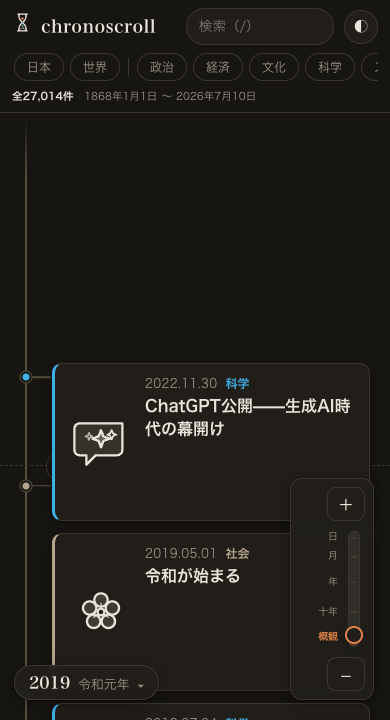
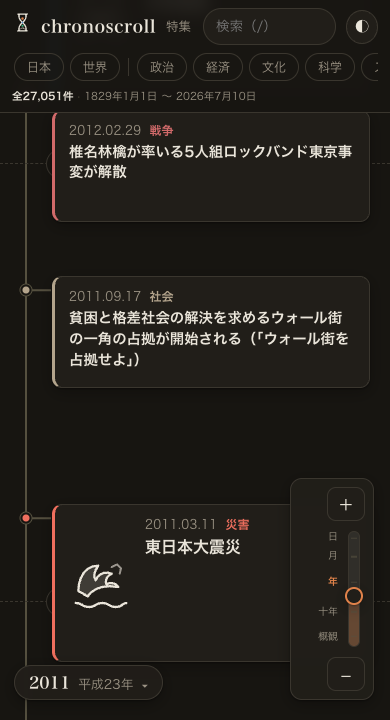
fix(state): ディープリンク?e=で詳細が開かない不具合を修正 + 特集の設計メモ
スクリーンショット撮影中に、個別ページの「年表でこの位置を開く」
（?t=&z=&e=<id>）で詳細ダイアログが開かないことに気づいた。全27,051件の
個別ページが持つ主要CTAが効いていなかった（今回の変更以前からの不具合）。

原因は細粒度リアクティビティの取りこぼし。`selected` は
$derived(data.byId(selectedId)) だが、byId() が読む #events は素のMapで
追跡対象にならない。ディープリンクではデータ到着前に selectedId が確定するため
初回評価でnullになり、以降 selectedId が変わらないので永久に再評価されない。
カード클릭では selectedId 自体が変わるので動いていた＝気づきにくかった。

同じ形の取りこぼしを今回追加した collectionsByEvent でも踏んでいた。
こちらは this.collections（$state）を .map のコールバック内で読むため、
未取得時は slugs が空でコールバックが走らず何も追跡しない。

- byId / booksById / collectionsByEvent の先頭で version を読む
- books.json / collections.json の到着時に version をインクリメント
- スモークに2件追加（CTAのhrefで実際に開くか / ダイアログの特集チップ）

あわせて:
- docs/superpowers/specs/ に特集機能の設計メモ（判断の理由・踏んだ落とし穴・
  新しい特集を足す手順）
- スクリーンショット4点を刷新（ヘッダーの特集リンクと収録期間1829年〜を反映。
  特集ページを追加）
- art-collection-houseplant に葉の切れ込みを追加（既存の art-abe-shooting
  =献花とsilhouetteが紛れていたため）

287テスト・lib100%・スモーク37/37

diff --git a/src/lib/state/data.svelte.ts b/src/lib/state/data.svelte.ts
@@ -57,22 +57,31 @@ export class TimelineData {
 		void fetchJson<Record<string, BookRef[]>>('/data/books.json')
 			.then((books) => {
 				this.#books = books;
+				this.version++;
 			})
 			.catch(() => {});
 		void fetchJson<CollectionsIndex>('/data/collections.json')
 			.then((index) => {
 				this.#collectionsByEvent = index.byEvent;
 				this.collections = index.collections;
+				this.version++;
 			})
 			.catch(() => {});
 	}
 
 	booksById(id: string): BookRef[] {
+		void this.version;
 		return this.#books[id] ?? [];
 	}
 
-	/** このイベントが収録されている特集（未取得なら空配列） */
+	/**
+	 * このイベントが収録されている特集（未取得なら空配列）。
+	 * version を先に読むのが必須。#collectionsByEvent が素のオブジェクトである上に、
+	 * 未取得時は slugs が空で .map のコールバックが走らず this.collections も読まれないため、
+	 * 何も追跡せず collections.json 到着後も再評価されない。
+	 */
 	collectionsByEvent(id: string): CollectionMeta[] {
+		void this.version;
 		const slugs = this.#collectionsByEvent[id] ?? [];
 		return slugs
 			.map((slug) => this.collections.find((c) => c.slug === slug))
@@ -114,7 +123,14 @@ export class TimelineData {
 		}
 	}
 
+	/**
+	 * イベントを引く。#events は素のMapで追跡できないため version を読む。
+	 * これが無いと `$derived(data.byId(id))` がチャンク到着で再評価されず、
+	 * ?e=<id> のディープリンク（個別ページの「年表でこの位置を開く」）で
+	 * 詳細が永久にnullのままになる。
+	 */
 	byId(id: string): NewsEvent | undefined {
+		void this.version;
 		return this.#events.get(id);
 	}
 

diff --git a/docs/superpowers/specs/2026-07-30-collections-design.md b/docs/superpowers/specs/2026-07-30-collections-design.md
@@ -1,0 +1,134 @@
+# 特集（コレクション）機能 設計メモ
+
+2026-07-30 実装。関連: `AGENTS.md`（運用ルール）/ `pipeline/lib/collections.ts` / `src/lib/collections.ts`
+
+## なぜ作ったか
+
+年表は1868〜現在を通しで眺めるのは得意だが、**あるテーマだけを追う導線が無かった**。
+「アニメの歴史」のようにテーマを決めて年代順に読める入口を足す。
+
+## 設計を決めた事実
+
+着手時に既存27,014件をキーワードで実測した結果が、機能の性質を決めた。
+
+| テーマ | ヒット | 実態 |
+|---|---|---|
+| アニメ | 88件 | 既存イベントで組める |
+| 鉄道 / 宇宙 / 映画 | 1141 / 238 / 145 | 素材豊富 |
+| ブレイクダンス | **0件** | ゼロ |
+| 観葉植物 | 18件 | 実質ゼロ（全部「植物園開園」） |
+
+Wikipedia年ページは「その年の主要な事件」を並べたものなので、**ニッチなテーマ史は構造的に載らない**。
+つまり特集は「既存イベントを束ねる機能」ではなく「**テーマ史を書き起こす場所**」でもある必要がある。
+
+前例はあった。`content/curated/ai-tech.yaml`（41件中40件が新規イベント）が事実上の未公開の特集で、
+これを表に出す形に落ち着いた。
+
+## 中心の判断: entries を CuratedEntry と同型にする
+
+`content/collections/<slug>.yaml` の `entries` を既存の `CuratedEntry` と同じ形にし、
+build.ts で curated 層と concat して**同じ経路に流す**。
+
+```
+content/curated/*.yaml      ┐
+content/collections/*.yaml  ┴→ curatedEntries → protectedIds（重複除去からのid保護）
+                                             → applyCurated（新規追加 / 部分上書き）
+                                             → manualRelatedIds（relatedIds手動指定）
+```
+
+これで4つの機能が新規実装なしで手に入る:
+
+1. 既存イベントの参照
+2. 既存イベントの部分上書き（要約リライト・SVG割当）
+3. **新規イベントの生成**（`date`+`title`+`summary` が揃うと `applyCurated` が作る）
+4. 月次Wikipedia再生成での**id保護**と、外れたときの `⚠` 検出
+
+配信は books.yaml の前例（`NewsEvent`にマージせず独立経路）に倣って2系統:
+
+- `static/data/collections.json` — 一覧メタ + イベントid→slug の逆引き（6KB）
+- `static/data/collections/<slug>.json` — 収録イベント**本体つき**（18〜37KB）
+
+本体を詰めたのが効いた。年表の `?k=<slug>` 絞り込みで**チャンクを1つも読まずに**特集全件を描ける。
+
+## 見せ方
+
+- `/c` 一覧、`/c/<slug>` 個別（どちらも `prerender` + `csr=false` の純静的HTML）
+- 年表側は `?k=<slug>`。`FilterState.collectionIds` で絞り、URLには id列ではなく slug だけ乗せる
+  （id集合は collections.json から解決するため `serializeFilter` の対象外）
+- 「年表で通して見る」は**期間の中央ではなく最新のできごと**に着地させる。
+  特集は年代が飛ぶので中央が空白帯になることがある（ブレイクダンスは1996〜2004が空）
+
+## 落とし穴（実装中に踏んだもの）
+
+### 1. 特集の絞り込み中はLODを外さないと1件も出ない
+
+収録イベントは本編を汚さないよう `importance` を40〜60に振ってある。
+一方 `importanceThreshold` は密度から閾値を出すので、フィルタ通過率で補正しても
+
+```
+selectivity = 18/725 = 0.0248 → adjustedEventsPerDay = 0.0093
+threshold = 100 × (1 − 0.1396/(110×0.0093)) ≈ 86
+```
+
+となり、**全件が閾値に負けて消える**。`Timeline.svelte` の `threshold` は特集中は 0 にする。
+件数は特集1本ぶん（数十件）に限られるので、間引きは `capDensity` だけで足りる。
+
+> 教訓: 「フィルタで件数が減れば `filterSelectivity` が閾値を下げてくれる」は成り立たない。
+> selectivity には下限0.005があるが、それに張り付く前に閾値が実用外の高さになる。
+
+### 2. importance の既定値は 100
+
+`applyCurated` は `importance` 省略時に 100 を入れる。新規イベントでは**必ず明示**する。
+省略するとニッチな話題が概観ズームの先頭に並ぶ。
+
+### 3. `e2e/serve.mjs` の cleanUrls 解決順
+
+`/c` は `build/c.html` と `build/c/`（`/c/<slug>` 用）が同名で並ぶ。harnessが
+ディレクトリを優先していたため `c/index.html` を探して404。**`.html` を先に見る**のが正しい。
+Vercelは出力ファイルからルート表を作るので本番は無影響だったが、CIのスモークが落ちる。
+
+### 4. 収録期間が伸びるとスモークが壊れる
+
+初期ズームは `vh×6/(maxDay−minDay)` なので、収録期間が伸びると初期ズームが下がる。
+「ズームアウトを2回押すと下限」という決め打ちが壊れた。**無効化されるまで押し切る**形にした。
+
+### 5. 前史を入れると収録期間の表示が変わる
+
+観葉植物の1829〜1855の6件を史実どおり入れたため、ヘッダーの収録期間が
+`1868年〜` → `1829年〜` になった。値は `index.json` から焼き込むので表示は自動追従する。
+1829〜1868は6件しかない疎な帯になる（ユーザー判断で受け入れ）。
+
+## 新しい特集を足す手順
+
+1. `content/collections/<slug>.yaml` を1本作る（`slug`/`title`/`lead`/`description`/`icon?`/`entries`）
+2. 既存イベントを使うなら id を調べる:
+   ```bash
+   node -e "
+   const fs=require('fs');let all=[];
+   for(const f of fs.readdirSync('static/data/chunks'))all=all.concat(JSON.parse(fs.readFileSync('static/data/chunks/'+f,'utf8')));
+   const re=/キーワード|別のキーワード/;
+   for(const e of all.filter(e=>re.test(e.title)||re.test(e.summary)).sort((a,b)=>a.date<b.date?-1:1))
+     console.log(e.id,'|',e.importance,'|',e.title.slice(0,60));
+   "
+   ```
+3. 素材が無いテーマは新規執筆。**出典は実在記事のみ**。書く前にAPIで存在確認する:
+   ```bash
+   node -e "
+   const t=['記事名A','記事名B'];
+   fetch('https://ja.wikipedia.org/w/api.php?action=query&format=json&redirects=1&titles='+encodeURIComponent(t.join('|')),
+     {headers:{'User-Agent':'chronoscroll-dev/1.0'}}).then(r=>r.json()).then(j=>{
+     for(const p of Object.values(j.query.pages)) console.log(p.missing!==undefined?'❌':'✅',p.title);
+   });"
+   ```
+   `importance` は 40〜60 で明示。ja版が無い題材は en版を出典にしてよい（ラベルに「(英語)」と付ける）
+4. アイコンを描くなら `static/art/sprite.svg` に `viewBox="0 0 96 96"` の symbol を追加し、
+   `/art-preview.html` で**64px相当の見え方を必ず確認する**（線が多いと小サイズで潰れる）
+5. 再生成して確認:
+   ```bash
+   npx tsx pipeline/run/build.ts --offline   # ⚠ が出ないこと・件数と期間を確認
+   npm run typecheck && npm run coverage && npm run build
+   node e2e/serve.mjs 5299 & node e2e/smoke.mjs http://localhost:5299
+   ```
+   スモークの特集シナリオは `collections.json` から件数を読むので、本数が増えても自動追従する
+
+表示順はファイル名順（`readdirSync().sort()`）。順序を変えたければファイル名を変える。
